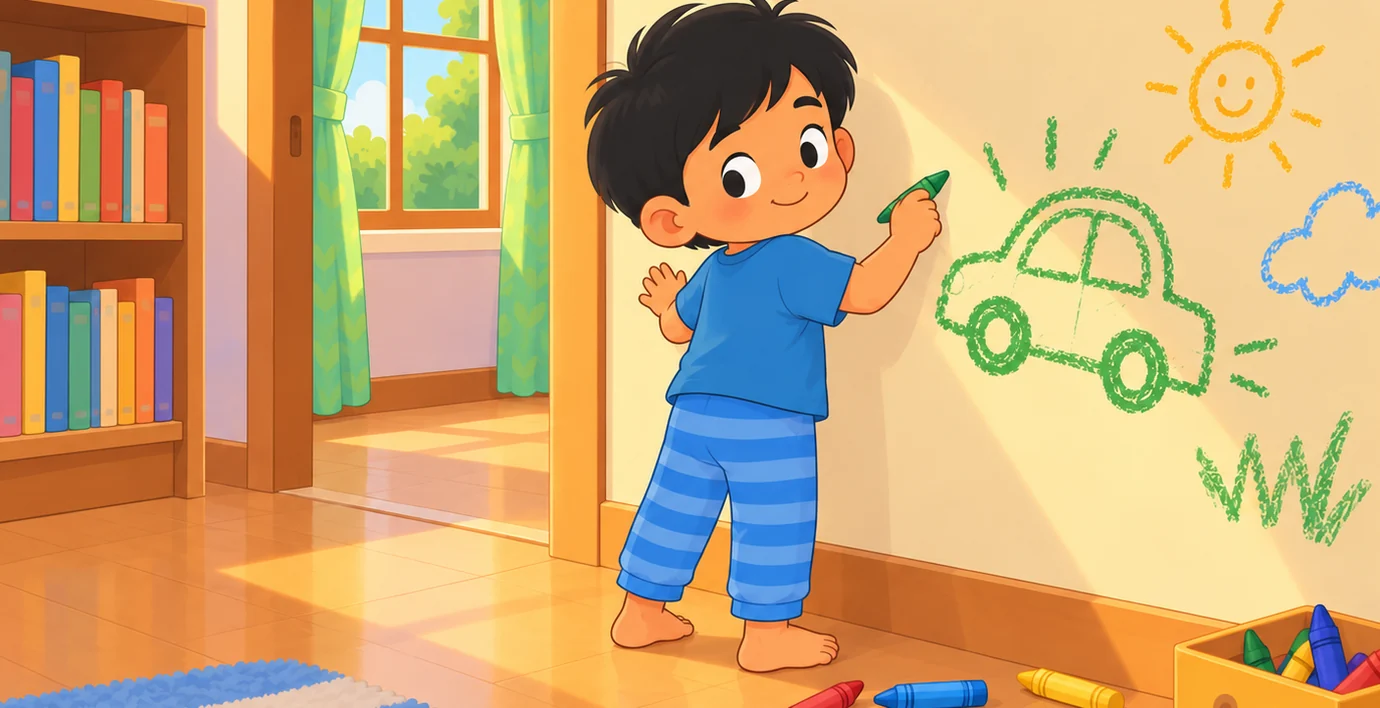
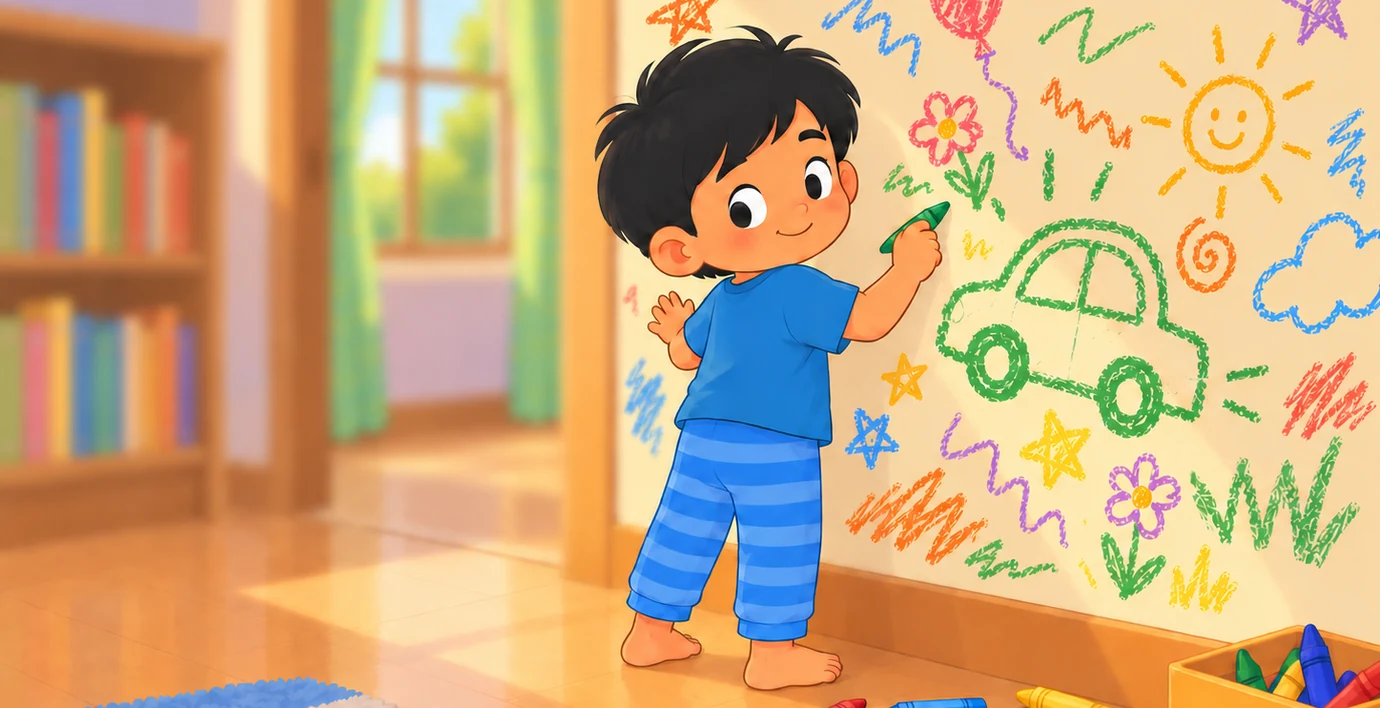
Add new story image and update build script for story 5

diff --git a/_reskin_build/build.py b/_reskin_build/build.py
@@ -778,6 +778,24 @@ g1 = next(s for s in card["slides"] if s["id"] == "G1")
 assert g1["type"] == "STORY_QUESTION", "G1 is not the guided picture question any more"
 card["slides"].remove(g1)
 assert [s["id"] for s in card["slides"][8:11]] == ["T9", "G2", "G3"], "after the removal the guided phase must open with G2"
+# ---- [L02-T5-PIC] (2026-10-03, user request) page 6 (T5, "उसने दीवार पर चित्र बनाए।") shows the user's new picture — the boy drawing a
+# car, a sun, flowers and stars on the wall with a green crayon, the crayon box by his feet (_reskin_build/story_5_source.png,
+# 1447x1087) — in place of the designer's story_5. Cut like the other story pictures: the picture's full width at the 1380:708 aspect
+# of story_1..9.webp (the 468x244 bar fills it with object-fit cover), the window placed so the boy is whole — his hair and his feet
+# with a small margin (rows STORY5_TOP .. STORY5_TOP + 742 of 1087; the picture frames at the top and the crayons on the floor are
+# trimmed, nothing of the boy is) — resized to 1380x708 and encoded like every other picture here (WEBP q88). The alt text
+# "माधव क्रेयॉन से दीवार पर चित्र बना रहा है।" describes this picture as well, so the card is unchanged. Remade when the source is newer.
+STORY5_TOP = 171
+def story_cut(n, src, top):
+    s = os.path.join(SCR, src); d = os.path.join(CUR, "assets", "Images", "story_%d.webp" % n)
+    assert os.path.exists(s), "missing " + s
+    if os.path.exists(d) and os.path.getmtime(d) >= os.path.getmtime(s): return
+    from PIL import Image
+    im = Image.open(s).convert("RGB"); W, H = im.size; h = int(round(W * 708 / 1380))
+    top = max(0, min(top, H - h))
+    im.crop((0, top, W, top + h)).resize((1380, 708), Image.LANCZOS).save(d, "WEBP", quality=88, method=6)
+    print("wrote", d, "rows %d-%d of %d" % (top, top + h, H))
+story_cut(5, "story_5_source.png", STORY5_TOP)
 for n in range(1, 10):
     assert os.path.exists(os.path.join(CUR, "assets/Images/story_%d.webp" % n)), "missing story_%d.webp" % n
 for k in aud:
